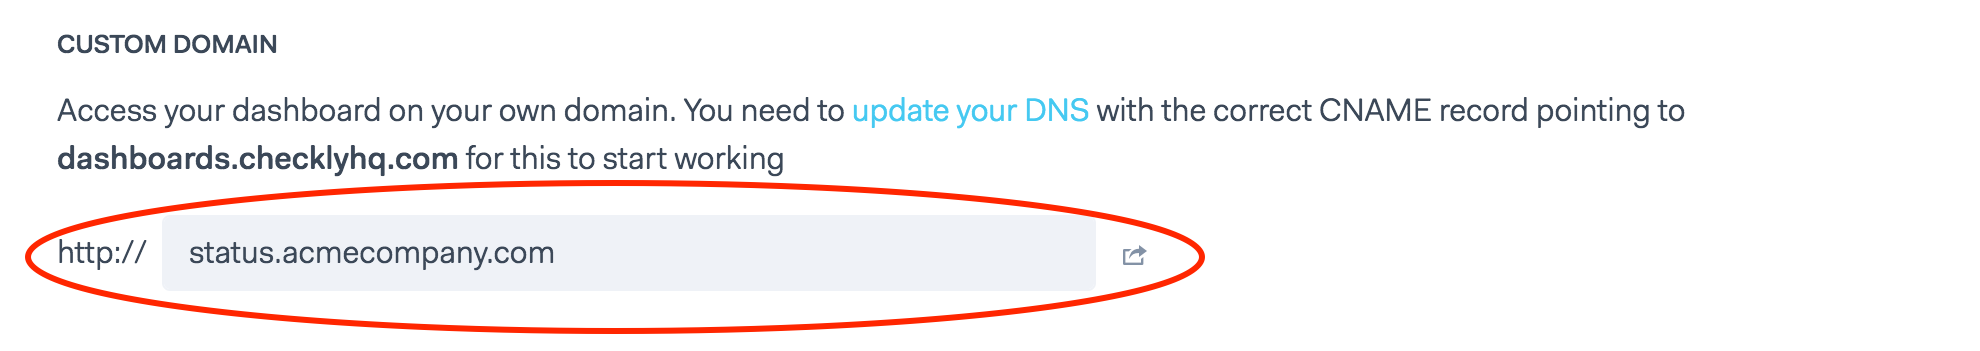
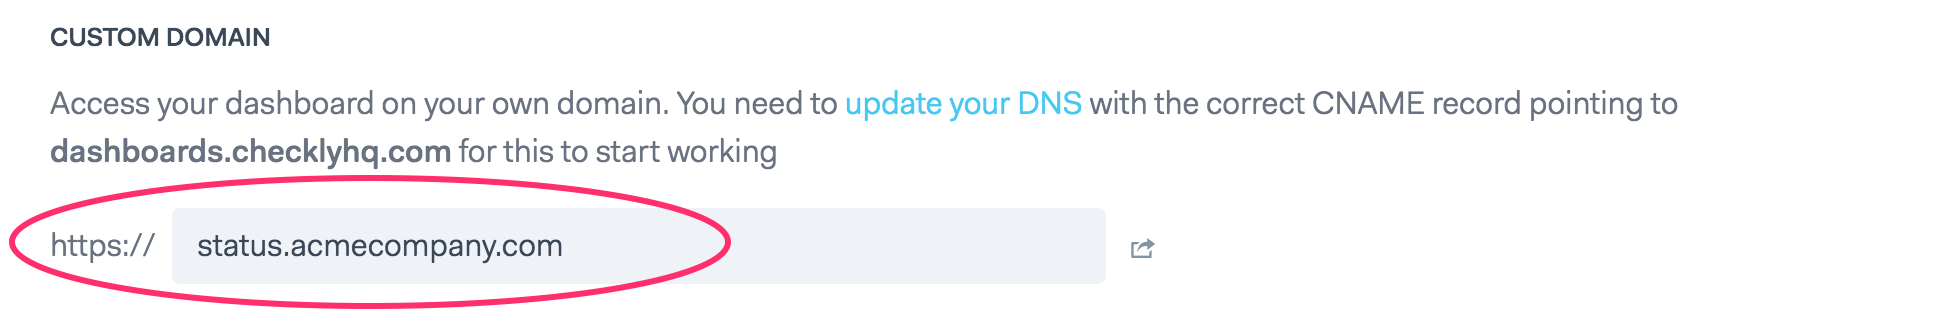
docs: add dashboards updates

diff --git a/site/content/docs/dashboards/_index.md b/site/content/docs/dashboards/_index.md
@@ -6,10 +6,11 @@ menu:
     parent: "TV-mode dashboards"
 ---
 
-TV-mode dashboards are public dashboards are available on every Checkly plan. Use them on your wall mounted TV's or shared
-monitors around the office or as a status page on your site.
+TV-mode dashboards are public dashboards available on every Checkly plan. Use them on your wall mounted TV's or 
+shared monitors around the office or as a status page on your site.
 
-Edit your TV-mode dashboard by clicking on the **TV-mode** button on the Checkly default dashboard page.
+You can create multiple, distinct dashboards based on your plan. Edit your TV-mode dashboard by clicking on 
+the **TV-mode** button on the Checkly default dashboard page.
 
 ## Custom URL
 
@@ -18,8 +19,6 @@ a random ID. You can change this sub domain to anything you like as long as it i
 Typically a company name works best.
 
 ![custom url for public dashboard](/docs/images/dashboards/custom_url.png)
-
-> public dashboards on the .checkly.com domain have the benefit of running under **https**
 
 
 ## Custom Domain
@@ -35,3 +34,6 @@ You can host your public dashboard under your own domain. To make this work, you
 Any DNS provider will have the option to easily add CNAME records. For example, on AWS Route 53 this looks like this.
 
 ![add cname to DNS provider](/docs/images/dashboards/aws_cname.png)
+
+> **SSL/TLS encryption is automatically provisioned** for all dashboards on a custom domain on the first request to that domain. This
+initial request might take a bit longer. 
